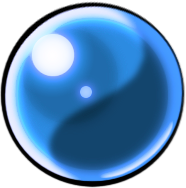
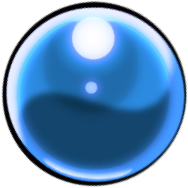
got player direction back and images updated for team orbs

diff --git a/static/js/player.js b/static/js/player.js
@@ -3,11 +3,11 @@ Player = function (game, team, position, flag, game_id, id) {
     var r_position1 = [200, 200],
     r_position2 = [200, 450],
     r_position3 = [200, 700],
-    r_position3 = [200, 950],
+    r_position4 = [200, 950],
     b_position1 = [1720, 200],
     b_position2 = [1720, 450],
     b_position3 = [1720, 700],
-    b_position3 = [1720, 950];
+    b_position4 = [1720, 950];
     var red_position = [r_position1, r_position2, r_position3]
     var blue_position = [b_position1, b_position2, b_position3]
 
@@ -40,6 +40,7 @@ Player = function (game, team, position, flag, game_id, id) {
     this.player_id = game_id;
     this.unique_id = id;
     this.boost = 0;
+    this.boostTurn = 0;
 
     game.physics.p2.enable(this.player);
 
@@ -53,30 +54,40 @@ Player.prototype.update = function(who) {
     //it's me
     if(who == 'me'){
         for (var i in this.input) this.cursor[i] = this.input[i];
-            this.player.body.setZeroVelocity();
+            // this.player.body.setZeroVelocity();
+            this.player.body.velocity.x = 0;
+            this.player.body.velocity.y = 0;
+            this.player.body.angularVelocity = 0;
             if (this.cursor.boost){
                 this.boost = 300;
+                this.boostTurn = 70;
             }else{
                 this.boost = 0;
-            }
+                this.boostTurn = 0;
 
-            if (this.cursor.up)
-            {
-                this.player.body.moveUp(300 + this.boost)
-            }
-            else if (this.cursor.down)
-            {
-                this.player.body.moveDown(300 + this.boost);
             }
 
             if (this.cursor.left)
             {
-                this.player.body.moveLeft(300 + this.boost);
+                // allows the player to turn left.  This is reset by reseting angularVelocity up above
+                this.player.body.rotateLeft(80 + this.boostTurn);
             }
             else if (this.cursor.right)
             {
-                this.player.body.moveRight(300 + this.boost);
+                // allows the player to turn right.  This is reset by reseting angularVelocity up above
+                this.player.body.rotateRight(80 + this.boostTurn);
             }
+
+            if (this.cursor.up)
+            {
+                this.player.body.moveForward(300 + this.boost);
+            }
+            // else if (this.cursor.down)
+            // {
+            //     this.player.body.moveDown(300 + this.boost);
+            // }
+
+
         }else{
             // its NOT me
 

diff --git a/static/js/multi_test.js b/static/js/multi_test.js
@@ -62,7 +62,7 @@ function create() {
             other_players.push(other_player);
         }
     }
-    // console.log(player)
+    console.log(player)
     // console.log(other_players)
     // console.log(sprite)
     // console.log(playersPresent);
@@ -121,7 +121,7 @@ function updateLand() {
 function updateMe() {
     if(player.alive){
         player.input.up = cursors.up.isDown;
-        player.input.down = cursors.down.isDown;
+        // player.input.down = cursors.down.isDown;
         player.input.left = cursors.left.isDown;
         player.input.right = cursors.right.isDown;
         // player.input.laser = fireButton.isDown;
@@ -171,11 +171,12 @@ function updateMe() {
 // }
 
 function ping(){
-    // console.log(player.player.position.x)
+    // console.log("This is the player.object: " + player.player);
     socket.emit('ping', {
         id: myId,
         playerX: player.player.position.x,
-        playerY: player.player.position.y
+        playerY: player.player.position.y,
+        playerRotation: player.player.rotation
     })
 }
 //put in controller

diff --git a/static/js/mainController.js b/static/js/mainController.js
@@ -4,7 +4,7 @@ playerList = [];
 var myId = 0;
 gameApp.controller('mainController', function($scope, $http, $cookies, $route, $location, $rootScope, $timeout, socket){
 	var num_ready = 0;
-	var apiPath = 'http://10.150.50.252:3000';
+	var apiPath = 'http://localhost:3000';
 
 	socket.on('player_init', function(socket_id){
 		console.log("Welcome, fool", socket_id);
@@ -67,6 +67,7 @@ gameApp.controller('mainController', function($scope, $http, $cookies, $route, $
 						var guyWhoJustPongedAndNotMe = playersPresent[i];
 						guyWhoJustPongedAndNotMe.player.position.x = data.playerX
 						guyWhoJustPongedAndNotMe.player.position.y = data.playerY
+						guyWhoJustPongedAndNotMe.player.rotation = data.playerRotation
 						console.log(data.playerX);
 
 					}

diff --git a/static/js/socket_factory.js b/static/js/socket_factory.js
@@ -1,7 +1,7 @@
 var socket;
 var gameApp = angular.module("gameApp", ['ngRoute', 'ngCookies']);
 gameApp.factory('socket', function ($rootScope) {
-  socket = io.connect('http://10.150.50.252:8080');
+  socket = io.connect('http://localhost:8080');
   return {
     on: function (eventName, callback) {
       socket.on(eventName, function () {  

diff --git a/back-end/routes/index.js b/back-end/routes/index.js
@@ -133,6 +133,7 @@ io.sockets.on('connect',function(socket){
 			id: data.id,
 			playerX: data.playerX,
 			playerY: data.playerY,
+			playerRotation: data.playerRotation,
 			message: "update move"
 		})
 	})
